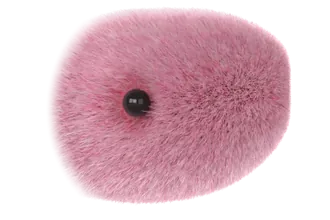
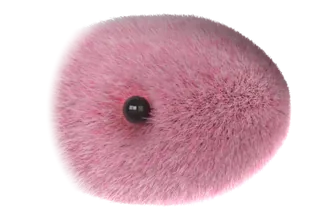
Snake: symmetric head (eye on the axis, reads right way up in every heading), head turns toward the gauge on the way to the calculator

diff --git a/assets/js/snake.js b/assets/js/snake.js
@@ -848,7 +848,7 @@
     // rest cache (progressive rebuild for breathing)
     var cacheA = null, cacheB = null, cacheX = 0, cacheY = 0, restReady = false, cacheReady = false, cacheCursor = 0, cacheBreath = 1, restT0 = 0, job = null;
     // look / head / tongue
-    var lookA = 0, lookDX = 0, lookDY = 0, eyeX = 0, eyeY = 0, bobT = 0;
+    var lookMoving = false, lookA = 0, lookDX = 0, lookDY = 0, eyeX = 0, eyeY = 0, bobT = 0;
     var tongueT = -1, nextFlick = 2.5, lastFlickEnd = -9;
     var headCX = 0, headCY = 0, headAng = PI;   // last drawn head (css px)
     // free motion (chase / wander)
@@ -2218,6 +2218,13 @@
         if (pointerActive && ptr.type === 'mouse' && (!jm || Math.abs(ptr.y - poseR.hy / dpr) < 1.2 * Hview)) { lkX = ptr.x; lkY = ptr.y; lkMax = 0.32; }
         else if (jm && restAt === REST_END && gaugeC) { lkX = gaugeC.x; lkY = gaugeC.y + gaugeC.r * 0.15; lkMax = 0.12; }   // a slight nod to the readout, no kink
       }
+      // on the way to the calculator the head turns toward the gauge (it would otherwise hang nose-down along the
+      // lane); the turn fades in as the gauge comes near and out again where the body joins the ring
+      if (jm && state === ST_JOURNEY && gaugeC && poseR && bank) {
+        var gx = gaugeC.x - poseR.hx / dpr, gy = gaugeC.y - poseR.hy / dpr, gd = Math.hypot(gx, gy), gr = gaugeC.r;
+        var gw = (1 - smooth(4.5 * gr, 7 * gr, gd)) * smooth(1.5 * gr, 2.6 * gr, gd);
+        if (gw > 0.001) tA += clamp(wrapA(Math.atan2(gy, gx) - poseR.ha), -0.65, 0.65) * gw;
+      }
       if (lkX === lkX) {
         var hx = poseR.hx / dpr, hy = poseR.hy / dpr, dx = lkX - hx, dy = lkY - hy, d = Math.hypot(dx, dy) || 1;
         tA += clamp(wrapA(Math.atan2(dy, dx) - poseR.ha), -lkMax, lkMax) * smooth(0.4 * rh, 3 * rh, d);
@@ -2227,6 +2234,8 @@
       var kl = 1 - Math.exp(-dt * 4.5);
       lookA += (tA - lookA) * kl; lookDX += (tX - lookDX) * kl; lookDY += (tY - lookDY) * kl;
       eyeX += (eX2 - eyeX) * kl; eyeY += (eY2 - eyeY) * kl;
+      lookMoving = Math.abs(tA - lookA) > 0.003 || Math.abs(tX - lookDX) > 0.05 || Math.abs(tY - lookDY) > 0.05;
+      if (!lookMoving && state === ST_JOURNEY) { lookA = tA; lookDX = tX; lookDY = tY; }
 
       if (jm) updateJourney(dt);
       if (state === ST_ROUTE) {
@@ -2324,14 +2333,14 @@
         var key = '';
         if (jm && state === ST_JOURNEY) {
           key = uJ + ':' + oyDev;
-          if (key === drawnKey && drawn && tongueT < 0 && !lookingNow() && !debug) {   // still frame
+          if (key === drawnKey && drawn && tongueT < 0 && !lookMoving && !debug) {   // still frame
             if (animatingJ() || job) raf = requestAnimationFrame(frame); else goIdle();
             return;
           }
           fillTrailJ(uJ);
         }
         renderMoving(); forceDraw = false;
-        drawnKey = tongueT >= 0 || lookingNow() ? '' : key;
+        drawnKey = tongueT >= 0 || lookMoving ? '' : key;
       }
       if (debug) drawDebug();
       var ms = now() - t0, st = api.stats;

diff --git a/dev/blender/snake_atlas_pack.py b/dev/blender/snake_atlas_pack.py
@@ -118,7 +118,17 @@ def main():
     d = np.hypot(np.minimum(xr, 0) / BACK[0], yr / BACK[1])
     fade = (1 - sstep(1 - BACK[2], 1, d))[..., None]
     for b in range(nh):
-        a = down(even_light(['head_%02d.png' % q for q in range(INFO['head_buckets'])])[::-1, ::-1], SS)   # turned by 180 deg
+        a = down(even_light(['head_%02d.png' % q for q in range(INFO['head_buckets'])], sym=True)[::-1, ::-1], SS)   # turned by 180 deg
+        # the head is never mirrored by the engine, so it must read the same whichever way it points: the bead eye
+        # is moved onto the head axis and the silhouette made symmetric about it (no "upside down" heading left)
+        dark = (a[..., :3].sum(-1) < 0.6) & (a[..., 3] > 0.95)
+        ey = int(round(np.nonzero(dark)[0].mean() - (oy0 - 0.5))) if dark.sum() > 20 else 0
+        a = np.roll(a, -ey, 0)
+        if ey > 0: a[-ey:] = 0
+        elif ey < 0: a[:-ey] = 0
+        mir = a[::-1][..., 3]
+        a = a * (np.minimum(a[..., 3], mir) / np.maximum(a[..., 3], 1e-4))[..., None]
+        print('head: eye moved by', -ey, 'px onto the axis')
         a = np.clip(np.stack([np.asarray(Image.fromarray(a[..., i], 'F').resize((hw, hh), Image.LANCZOS)) for i in range(4)], -1), 0, 1) * fade
         r, c = divmod(b, cols)
         head[r * hh:(r + 1) * hh, c * hw:(c + 1) * hw] = a
@@ -154,7 +164,7 @@ def main():
             'head_scale': 1.2, 'cell': [hw, hh], 'origin': [round(ox, 2), round(oy, 2)], 'eyes': True, 'fade_baked': True, 'tongue': False,
             'neck_fade_R': list(NECK_FADE),
             'eye': {'per_bucket': [[1]] * 32,
-                    'centres': [[round((INFO['head_s0'] - nose - 0.86) * d2r, 3), round(-0.05 * d2r, 3)]]},
+                    'centres': [[round((INFO['head_s0'] - nose - 0.86) * d2r, 3), 0]]},
             'tongue_base_R': [round((INFO['head_s0'] - nose - 0.05) * d2r, 3), round(1.09 * HEAD_K, 3)],
             'shape': {'source': 'blender/snake_scene.py head_profile (head v6)',
                       'frame': 'units of R; x forward from the head point; cell image y: jaw toward -y, brow toward +y'},
